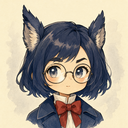
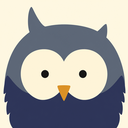
Take the flat-face portraits
A face built from a handful of shapes on a plain ground is what a 28px tile
actually renders. The two earlier cuts are the argument for it: a full figure in
a landscape shrank the character to a few pixels, and painted head-and-shoulders
art survived but lost its detail to the downscale. These lose nothing, and each
ground reads as a colour before it reads as an animal — which is the fastest
identity signal at this size. Half the file weight, too.

diff --git a/src/renderer/assets/agent-avatars/README.md b/src/renderer/assets/agent-avatars/README.md
@@ -53,16 +53,18 @@ hairline. Everything else follows from that size:
   beside the words they are labelling. A tile that out-shouts the message is
   too saturated for this surface, whatever it looks like at full size.
 
-The current set is head-and-shoulders art on a painted ground, which is what
-makes it work at tile size: at 28px only the face and the largest colour areas
-survive, so a portrait framed like a portrait reads, and a full figure in a
-landscape does not. The ground still has no edge of its own, so the hairline on
-`.thread-speaker-avatar` is what frames it on both a light and a dark panel.
+The current set is a flat animal face filling the frame on a plain ground —
+what a 28px tile actually renders. The two earlier cuts are the argument for
+it: a full figure in a landscape shrank the character to a few pixels, and
+painted head-and-shoulders art survived but lost its detail to the downscale.
+A face built from a handful of shapes loses nothing. Grounds are plain colour
+per identity, so the tile also reads as a colour before it reads as an animal.
+The ground has no edge of its own, so the hairline on `.thread-speaker-avatar`
+is what frames it on both a light and a dark panel.
 
 ## Provenance
 
-Supplied by the PM as 1024px watercolour character portraits, downscaled to
-128px for the bundle. No image generation at runtime, no network. Verify a
+Supplied by the PM as 1024px masters, downscaled to 128px for the bundle. No image generation at runtime, no network. Verify a
 change by rendering all four at tile size on both a light and a near-black
 field before committing.
 
